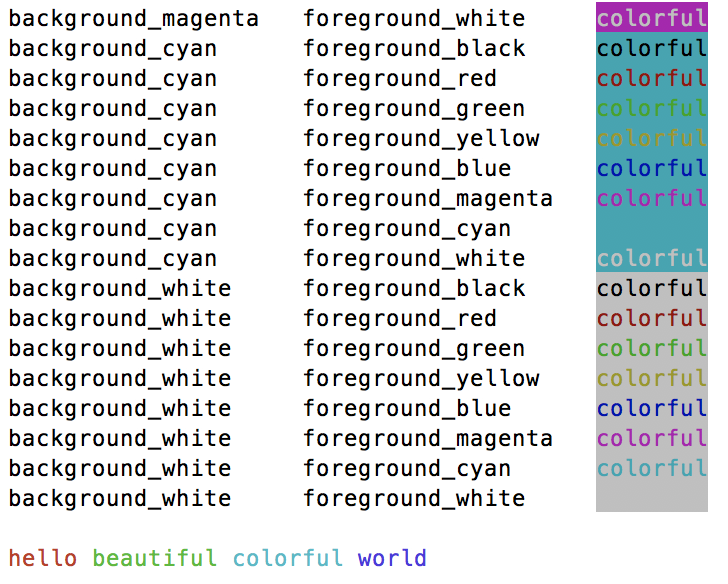
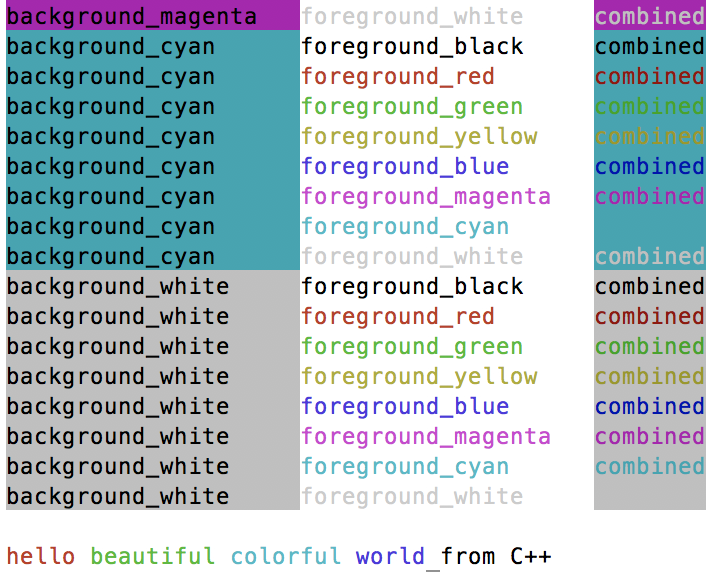
more colors!

diff --git a/lesson1/lesson1.py b/lesson1/lesson1.py
@@ -273,11 +273,14 @@ def lesson1():
                         ansii.Code.BACKGROUND_WHITE):
         for fg_col in range(ansii.Code.FOREGROUND_BLACK,
                             ansii.Code.FOREGROUND_WHITE):
-            sys.stdout.write("{0: <20} {1: <20}".format(\
-                             ansii.get_code_name(bg_col),
-                             ansii.get_code_name(fg_col)))
+            sys.stdout.write(ansii.get_code(bg_col))
+            sys.stdout.write("{0: <20}".format(ansii.get_code_name(bg_col)))
+            sys.stdout.write(ansii.get_code(ansii.Code.RESET))
+            sys.stdout.write(ansii.get_code(fg_col))
+            sys.stdout.write("{0: <20}".format(ansii.get_code_name(fg_col)))
+            sys.stdout.write(ansii.get_code(ansii.Code.RESET))
             sys.stdout.write(ansii.get_bgfg_code(bg_col, fg_col))
-            sys.stdout.write("colorful")
+            sys.stdout.write("combined")
             sys.stdout.write(ansii.get_code(ansii.Code.RESET))
             print()
 

diff --git a/lesson1/lesson1.cpp b/lesson1/lesson1.cpp
@@ -299,11 +299,15 @@ int main (int argc, char *argv[])
         for (unsigned char fg = ansii.FOREGROUND_BLACK;
                            fg <= ansii.FOREGROUND_WHITE;
                            fg++) {
+            std::cout << ansii.get_code(ansii.RESET);
+            std::cout << ansii.get_code(bg);
             std::cout << std::left << std::setw(20) << ansii.get_code_name(bg) << " ";
+            std::cout << ansii.get_code(ansii.RESET);
+            std::cout << ansii.get_code(fg);
             std::cout << std::left << std::setw(20) << ansii.get_code_name(fg) << " ";
 
             std::cout << ansii.get_bgfg_code(bg, fg);
-            std::cout << "colorful";
+            std::cout << "combined";
             std::cout << ansii.get_code(ansii.RESET);
             std::cout << std::endl;
         }
